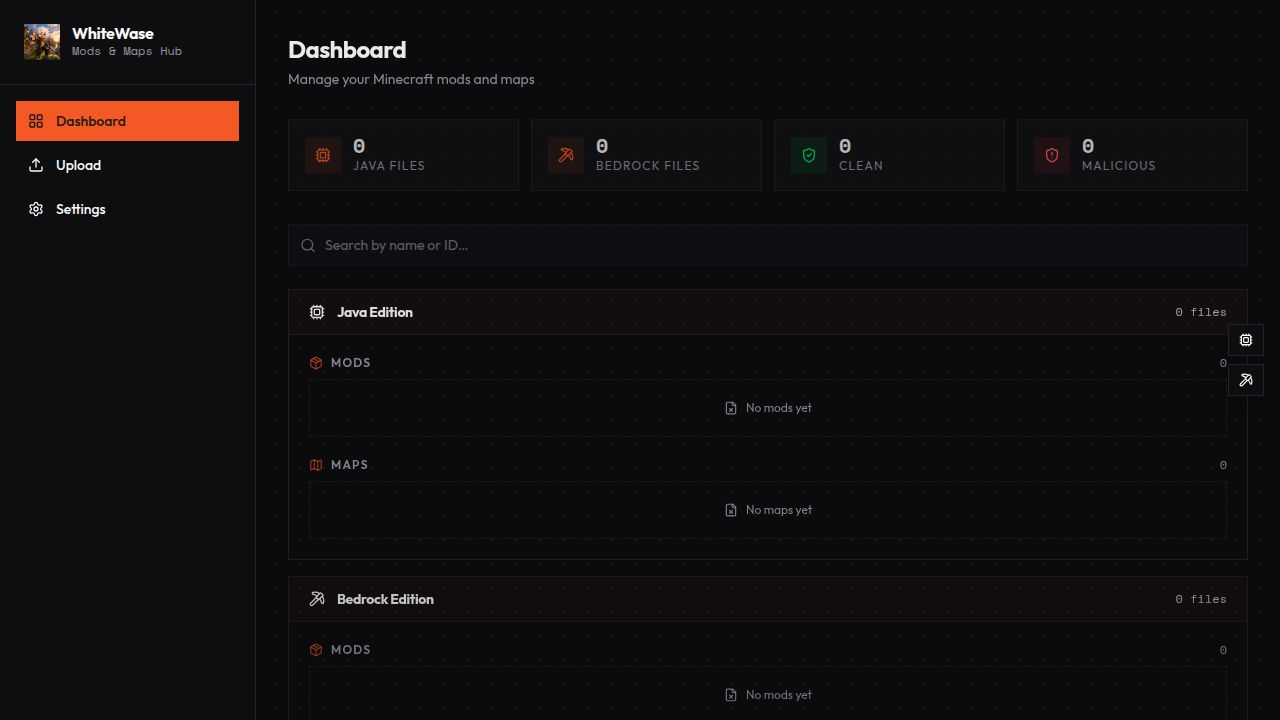
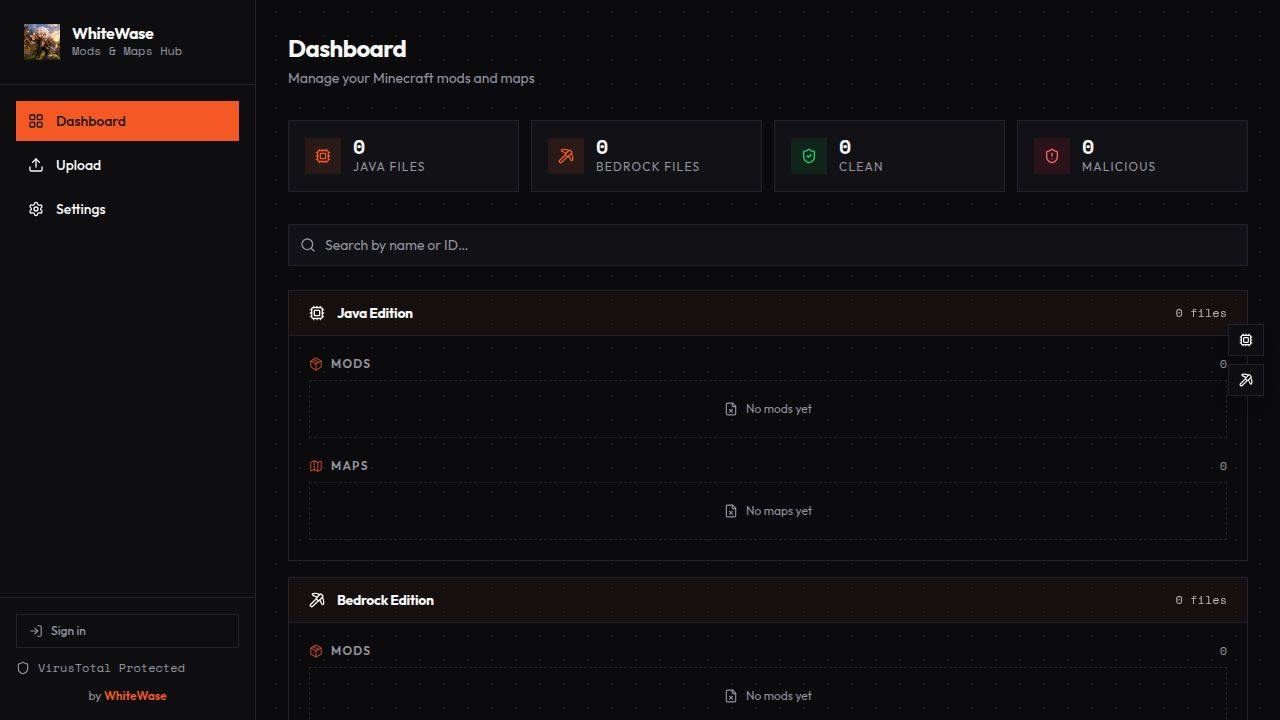
Ensure sign-in and profile options are always visible
Update the layout component to always display sign-in or user profile options, regardless of the authentication loading state.

Replit-Commit-Author: Agent
Replit-Commit-Session-Id: b86ce7e4-273c-4040-a06c-291128488dc9
Replit-Commit-Checkpoint-Type: full_checkpoint
Replit-Commit-Event-Id: 0e1c1a63-a0cf-423a-8b2b-f43c5b4f8a77
Replit-Commit-Screenshot-Url: https://storage.googleapis.com/screenshot-production-us-central1/fd82499a-0e9c-446f-988c-ed6c739e06e6/b86ce7e4-273c-4040-a06c-291128488dc9/j0CQmNv
Replit-Helium-Checkpoint-Created: true

diff --git a/artifacts/minecraft-hub/src/components/Layout.tsx b/artifacts/minecraft-hub/src/components/Layout.tsx
@@ -113,43 +113,41 @@ export default function Layout({ children }: LayoutProps) {
 
         {/* Footer */}
         <div className="p-4 border-t border-sidebar-border space-y-3">
-          {isLoaded && (
-            user ? (
-              <div className="space-y-2">
-                <Link
-                  href="/profile"
-                  className="flex items-center gap-2.5 px-1 hover:opacity-80 transition-opacity cursor-pointer group"
-                >
-                  {avatarSrc ? (
-                    <img src={avatarSrc} alt={displayLabel} className="w-6 h-6 rounded-full flex-shrink-0 object-cover ring-1 ring-transparent group-hover:ring-primary transition-all" />
-                  ) : (
-                    <div className="w-6 h-6 rounded-full bg-primary/20 flex items-center justify-center flex-shrink-0">
-                      <User className="w-3 h-3 text-primary" />
-                    </div>
-                  )}
-                  <span className="text-xs text-sidebar-foreground truncate flex-1 group-hover:text-primary transition-colors">
-                    {displayLabel}
-                  </span>
-                </Link>
-                <button
-                  onClick={() => signOut({ redirectUrl: basePath || "/" })}
-                  className="w-full flex items-center gap-2 px-3 py-2 text-xs font-medium text-muted-foreground border border-sidebar-border hover:border-primary/60 hover:text-primary transition-colors"
-                >
-                  <LogOut className="w-3.5 h-3.5 flex-shrink-0" />
-                  {t.nav.signOut}
-                </button>
-              </div>
-            ) : (
-              <div className="space-y-2">
-                <Link
-                  href="/sign-in"
-                  className="w-full flex items-center gap-2 px-3 py-2 text-xs font-medium text-muted-foreground border border-sidebar-border hover:border-primary/60 hover:text-primary transition-colors"
-                >
-                  <LogIn className="w-3.5 h-3.5 flex-shrink-0" />
-                  {t.nav.signIn}
-                </Link>
-              </div>
-            )
+          {isLoaded && user ? (
+            <div className="space-y-2">
+              <Link
+                href="/profile"
+                className="flex items-center gap-2.5 px-1 hover:opacity-80 transition-opacity cursor-pointer group"
+              >
+                {avatarSrc ? (
+                  <img src={avatarSrc} alt={displayLabel} className="w-6 h-6 rounded-full flex-shrink-0 object-cover ring-1 ring-transparent group-hover:ring-primary transition-all" />
+                ) : (
+                  <div className="w-6 h-6 rounded-full bg-primary/20 flex items-center justify-center flex-shrink-0">
+                    <User className="w-3 h-3 text-primary" />
+                  </div>
+                )}
+                <span className="text-xs text-sidebar-foreground truncate flex-1 group-hover:text-primary transition-colors">
+                  {displayLabel}
+                </span>
+              </Link>
+              <button
+                onClick={() => signOut({ redirectUrl: basePath || "/" })}
+                className="w-full flex items-center gap-2 px-3 py-2 text-xs font-medium text-muted-foreground border border-sidebar-border hover:border-primary/60 hover:text-primary transition-colors"
+              >
+                <LogOut className="w-3.5 h-3.5 flex-shrink-0" />
+                {t.nav.signOut}
+              </button>
+            </div>
+          ) : (
+            <div className="space-y-2">
+              <Link
+                href="/sign-in"
+                className="w-full flex items-center gap-2 px-3 py-2 text-xs font-medium text-muted-foreground border border-sidebar-border hover:border-primary/60 hover:text-primary transition-colors"
+              >
+                <LogIn className="w-3.5 h-3.5 flex-shrink-0" />
+                {t.nav.signIn}
+              </Link>
+            </div>
           )}
           {canInstall && (
             <button
@@ -192,32 +190,30 @@ export default function Layout({ children }: LayoutProps) {
           </div>
           <span className="font-bold text-sm tracking-tight">WhiteWase</span>
         </div>
-        {isLoaded && (
-          user ? (
-            <div className="flex items-center gap-3">
-              <Link href="/profile" className="flex items-center">
-                {avatarSrc ? (
-                  <img src={avatarSrc} alt={displayLabel} className="w-7 h-7 rounded-full object-cover ring-1 ring-transparent hover:ring-primary transition-all" />
-                ) : (
-                  <div className="w-7 h-7 rounded-full bg-primary/20 flex items-center justify-center">
-                    <User className="w-4 h-4 text-primary" />
-                  </div>
-                )}
-              </Link>
-              <button
-                onClick={() => signOut({ redirectUrl: basePath || "/" })}
-                className="flex items-center justify-center w-7 h-7 text-muted-foreground hover:text-primary transition-colors"
-                aria-label={t.nav.signOut}
-              >
-                <LogOut className="w-4 h-4" />
-              </button>
-            </div>
-          ) : (
-            <Link href="/sign-in" className="text-xs text-primary font-medium flex items-center gap-1">
-              <LogIn className="w-3.5 h-3.5" />
-              {t.nav.signIn}
+        {isLoaded && user ? (
+          <div className="flex items-center gap-3">
+            <Link href="/profile" className="flex items-center">
+              {avatarSrc ? (
+                <img src={avatarSrc} alt={displayLabel} className="w-7 h-7 rounded-full object-cover ring-1 ring-transparent hover:ring-primary transition-all" />
+              ) : (
+                <div className="w-7 h-7 rounded-full bg-primary/20 flex items-center justify-center">
+                  <User className="w-4 h-4 text-primary" />
+                </div>
+              )}
             </Link>
-          )
+            <button
+              onClick={() => signOut({ redirectUrl: basePath || "/" })}
+              className="flex items-center justify-center w-7 h-7 text-muted-foreground hover:text-primary transition-colors"
+              aria-label={t.nav.signOut}
+            >
+              <LogOut className="w-4 h-4" />
+            </button>
+          </div>
+        ) : (
+          <Link href="/sign-in" className="text-xs text-primary font-medium flex items-center gap-1">
+            <LogIn className="w-3.5 h-3.5" />
+            {t.nav.signIn}
+          </Link>
         )}
       </header>
 

diff --git a/artifacts/minecraft-hub/dev-dist/sw.js b/artifacts/minecraft-hub/dev-dist/sw.js
@@ -81,7 +81,7 @@ define(['./workbox-290dd570'], (function (workbox) { 'use strict';
     "revision": "3ca0b8505b4bec776b69afdba2768812"
   }, {
     "url": "index.html",
-    "revision": "0.3kuas2ts068"
+    "revision": "0.ve7dpc6d1jo"
   }], {});
   workbox.cleanupOutdatedCaches();
   workbox.registerRoute(new workbox.NavigationRoute(workbox.createHandlerBoundToURL("index.html"), {